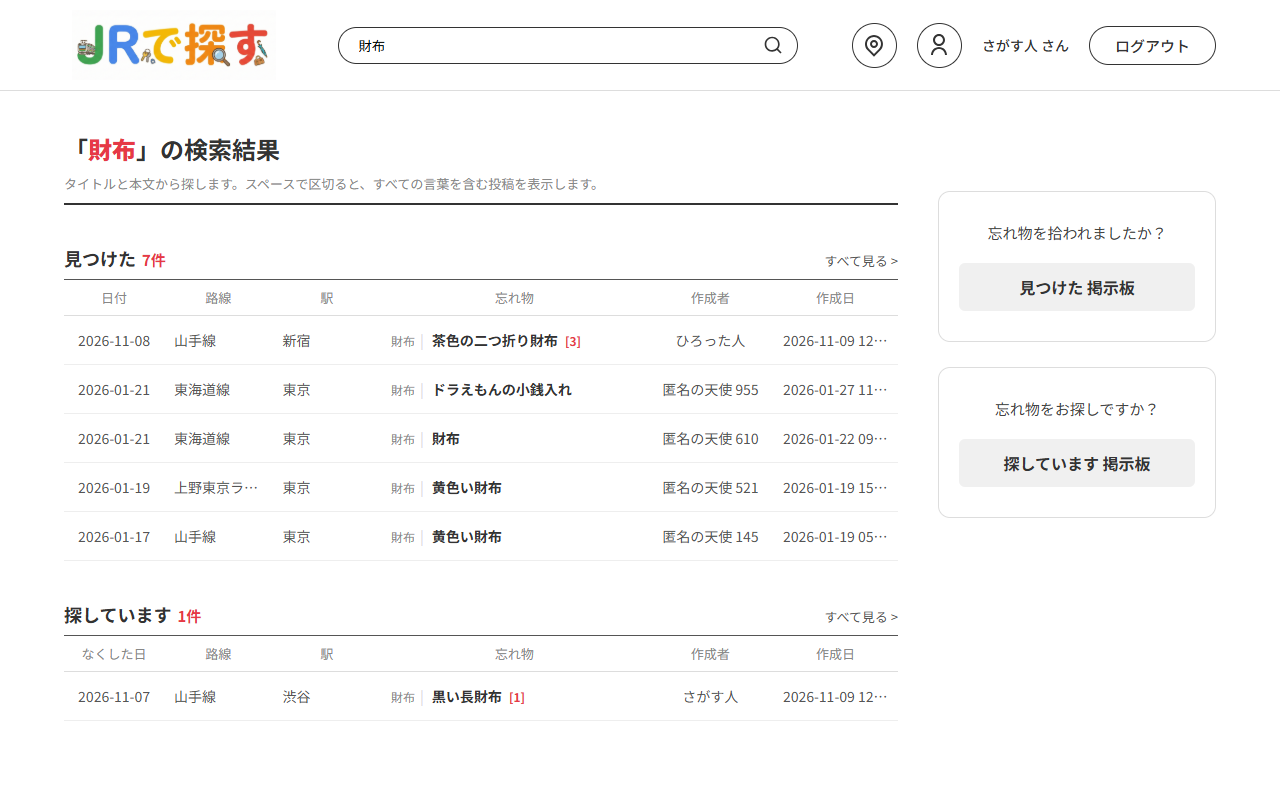
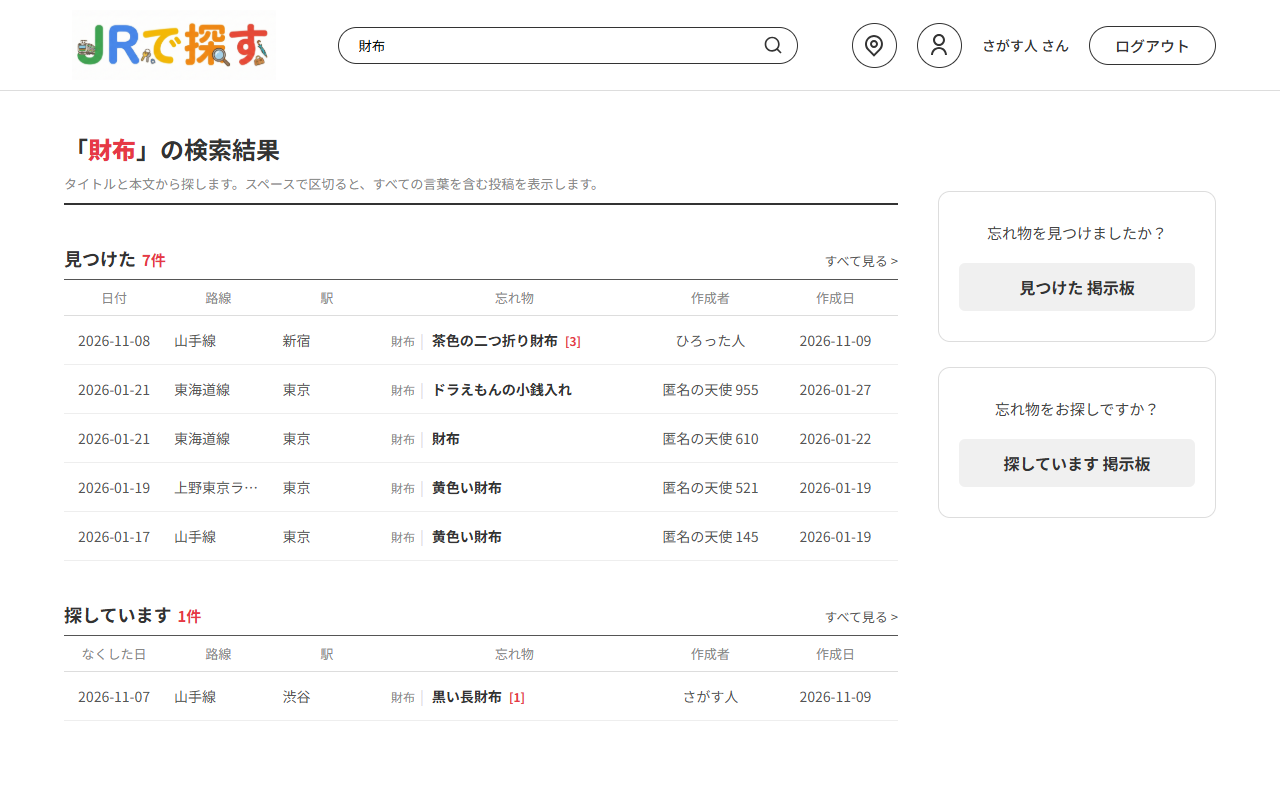
README 스크린샷 갱신, 휴대폰 화면 스크린샷 추가
- QA 점검 결과를 반영한 지금 화면으로 다시 촬영 (정렬 중인 열 표시, 작성일 칸, 댓글 입력 칸, 문구 등)
- 휴대폰 화면(폭 390px) 스크린샷 3개 추가: 목록(카드 형태), 상세, 探しています 작성 전 주의사항

diff --git a/README.ja.md b/README.ja.md
@@ -29,6 +29,16 @@
   </tr>
 </table>
 
+スマートフォン表示（幅390px）
+
+<table>
+  <tr>
+    <td width="33%"><img src="docs/screenshots/09-mobile-list.png" alt="スマートフォン 見つけた 一覧"><br>一覧 — 表をカード形式に</td>
+    <td width="33%"><img src="docs/screenshots/10-mobile-detail.png" alt="スマートフォン 見つけた 詳細"><br>詳細</td>
+    <td width="33%"><img src="docs/screenshots/11-mobile-warning.png" alt="スマートフォン 探しています 投稿前の注意事項"><br>探しています 投稿前の注意事項</td>
+  </tr>
+</table>
+
 スクリーンショットの投稿・会員情報はすべてテスト用のデータです。
 
 ## 技術スタック

diff --git a/README.md b/README.md
@@ -29,6 +29,16 @@
   </tr>
 </table>
 
+휴대폰 화면 (폭 390px)
+
+<table>
+  <tr>
+    <td width="33%"><img src="docs/screenshots/09-mobile-list.png" alt="휴대폰 見つけた 목록"><br>목록 — 표를 카드 형태로</td>
+    <td width="33%"><img src="docs/screenshots/10-mobile-detail.png" alt="휴대폰 見つけた 상세"><br>상세</td>
+    <td width="33%"><img src="docs/screenshots/11-mobile-warning.png" alt="휴대폰 探しています 작성 전 주의사항"><br>探しています 작성 전 주의사항</td>
+  </tr>
+</table>
+
 스크린샷의 게시글·회원 정보는 모두 테스트용 데이터입니다.
 
 ## 기술 스택
